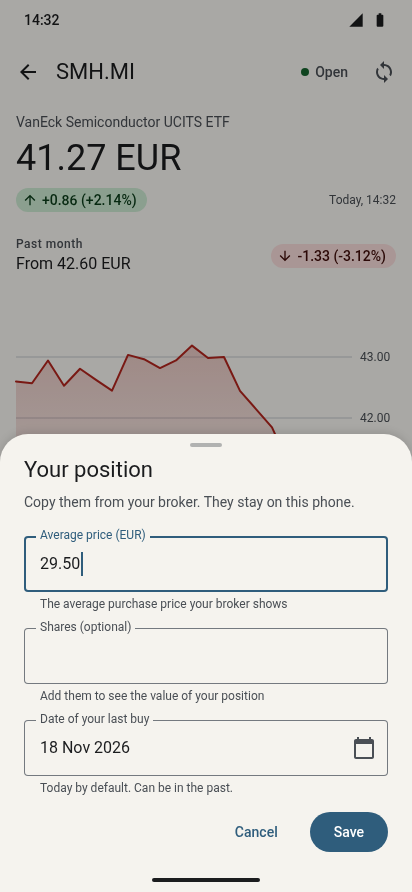
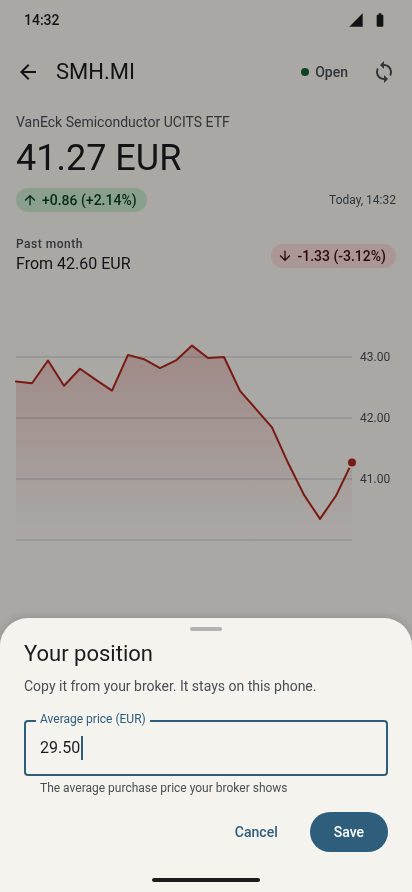
Export the M1 average-only design from Doop (decision 0040)
PositionCard rev 3: the avg state shows the average and the change since it, with no
shares hint and no last-buy footer. The add and edit sheets ask for the average only,
and the edit sheet's chart loses the diamond. The avg+shares frame is parked for M2 and
not re-exported.

Changed region(s): [[0.0, 0.4843, 1.0, 0.9081], [0.8447, 0.8173, 0.9612, 0.8778]]

diff --git a/docs/design/doop/frames/details-edit-position.html b/docs/design/doop/frames/details-edit-position.html
@@ -15,7 +15,6 @@
 <path d="M16.0,97.4 L32.0,99.3 L48.0,76.5 L64.0,101.7 L80.0,84.8 L96.0,95.9 L112.0,106.7 L128.0,70.9 L144.0,75.2 L160.0,84.1 L176.0,76.4 L192.0,61.6 L208.0,74 L224.0,73 L240.0,106.9 L256.0,125.1 L272.0,143.3 L288.0,178.8 L304.0,210.9 L320.0,234.9 L336.0,211.8 L352.0,178.6" fill="none" stroke="currentColor" stroke-width="2" stroke-linejoin="round" stroke-linecap="round"></path>
 <line x1="16" y1="213.3" x2="352" y2="213.3" stroke="var(--color-tertiary)" stroke-width="1.5" stroke-dasharray="0.1 5" stroke-linecap="round"></line>
 <text x="18" y="207.4" fill="var(--color-tertiary)" font-size="11" font-weight="500" font-family="var(--font-sans)">Your avg</text>
-<path d="M112 99.2 L119.5 106.7 L112 114.2 L104.5 106.7 Z" fill="var(--color-tertiary)" stroke="var(--color-surface)" stroke-width="2" stroke-linejoin="round"></path>
 <circle cx="352" cy="178.6" r="5" fill="currentColor" stroke="var(--color-surface)" stroke-width="2"></circle>
 <g fill="var(--color-on-surface-variant)" font-size="12" font-family="var(--font-sans)" style="font-variant-numeric:tabular-nums;"><text x="360" y="76.5">43.00</text><text x="360" y="137.5">42.00</text><text x="360" y="198.5">41.00</text></g>
 <text x="360" y="216.8" fill="var(--color-tertiary)" font-size="12" font-weight="500" font-family="var(--font-sans)" style="font-variant-numeric:tabular-nums;">40.70</text>
@@ -24,10 +23,8 @@
 <div style="position:absolute;left:0;right:0;bottom:0;">
 <doop-use component="BottomSheet"><template slot="content">
 <h2 style="font-size:var(--text-title-large);line-height:var(--leading-title-large);font-weight:var(--font-weight-regular);">Your position</h2>
-<p style="margin-top:var(--spacing-sm);font-size:var(--text-body-medium);line-height:var(--leading-body-medium);color:var(--color-on-surface-variant);">Bought more? Copy the new values from your broker.</p>
+<p style="margin-top:var(--spacing-sm);font-size:var(--text-body-medium);line-height:var(--leading-body-medium);color:var(--color-on-surface-variant);">Bought more? Copy the new average from your broker.</p>
 <div style="margin-top:var(--spacing-lg);"><doop-use component="TextField" label="Average price (EUR)" state="focused" supporting="Was 40.70" value="41.02"></doop-use></div>
-<div style="margin-top:var(--spacing-md);"><doop-use component="TextField" label="Shares (optional)" supporting="Was 120" value="140"></doop-use></div>
-<div style="margin-top:var(--spacing-md);position:relative;"><doop-use component="TextField" label="Date of this buy" supporting="Was 28 Oct 2026. Can be in the past." value="14 Nov 2026"></doop-use><svg aria-hidden="true" width="24" height="24" viewBox="0 0 24 24" fill="var(--color-on-surface-variant)" style="position:absolute;right:12px;top:16px;"><path d="M20 3h-1V1h-2v2H7V1H5v2H4c-1.1 0-2 .9-2 2v16c0 1.1.9 2 2 2h16c1.1 0 2-.9 2-2V5c0-1.1-.9-2-2-2zm0 18H4V8h16v13z"></path></svg></div>
 <div style="margin-top:var(--spacing-md);display:flex;justify-content:flex-end;align-items:center;gap:var(--spacing-sm);"><doop-use component="Button" label="Cancel" tone="text"></doop-use><doop-use component="Button" label="Save" tone="filled"></doop-use></div>
 <div style="height:24px;"></div>
 </template></doop-use>

diff --git a/docs/design/doop/components/PriceChart.html b/docs/design/doop/components/PriceChart.html
@@ -10,12 +10,12 @@
         2px surface ring. 1D only: dashed 1px on-surface-variant baseline at the previous close, its label in medium
         weight; the line stops at the last quote (the rest of the 09:00-17:30 session stays empty).
         Scrub: 1px on-surface vertical line at the finger plus a 6px dot on the line.
-  Position (decisions 0033, 0034), only when the owner logged one:
+  Position (decisions 0033, 0040), only when the owner saved an average:
         Average: 1.5px dotted tertiary line (dasharray 0.1 5, round caps) across the plot, "Your avg" above its left
         end (11px medium tertiary), its price in the gutter in tertiary medium. Outside the axis range the axis is
         never stretched: a short dotted stub at the plot edge, a chevron and the price in the gutter.
-        Last buy: 15px tertiary diamond with a 2px surface outline on the line at the buy's date, only when that
-        date is inside the range. No drop line, axis tick or date label (the date is in the PositionCard footer).
+        No last-buy mark: the diamond of decision 0034 is removed in M1 (decision 0040). The latest buy returns in
+        the private view (M2), at its date and price.
   Error state: no chart (never a stale one), "Couldn't fetch" with a Retry button (PRD 4).
 -->
 <div class="pc" data-state="ready" data-direction="up" style="position:relative;height:292px;font-family:var(--font-sans);"><div class="pc-plot" data-doop-slot="plot" style="position:absolute;inset:0;"></div><div class="pc-err" style="position:absolute;inset:0;flex-direction:column;align-items:center;justify-content:center;gap:var(--spacing-sm);margin:0 var(--spacing-md);border-radius:var(--radius-lg);background:var(--color-surface-container-low);color:var(--color-on-surface-variant);text-align:center;"><svg width="32" height="32" viewBox="0 0 24 24" fill="currentColor"><path d="M19.35 10.04A7.49 7.49 0 0 0 12 4c-1.48 0-2.85.43-4.01 1.17l1.46 1.46a5.497 5.497 0 0 1 8.05 4.87v.5H19c1.66 0 3 1.34 3 3 0 1.13-.64 2.11-1.56 2.62l1.45 1.45C23.16 18.16 24 16.68 24 15c0-2.64-2.05-4.78-4.65-4.96zM3 5.27l2.75 2.74C2.56 8.15 0 10.77 0 14c0 3.31 2.69 6 6 6h11.73l2 2L21 20.73 4.27 4 3 5.27zM7.73 10l8 8H6c-2.21 0-4-1.79-4-4s1.79-4 4-4h1.73z"></path></svg><p style="font-size:var(--text-title-medium);line-height:var(--leading-title-medium);font-weight:var(--font-weight-medium);color:var(--color-on-surface);">Couldn't fetch</p><p style="font-size:var(--text-body-medium);line-height:var(--leading-body-medium);max-width:260px;">The chart needs a connection. Check it and try again.</p><span style="margin-top:var(--spacing-sm);"><doop-use component="Button" tone="filled" label="Retry"></doop-use></span></div></div>

diff --git a/docs/design/doop/components/PositionCard.html b/docs/design/doop/components/PositionCard.html
@@ -1,13 +1,14 @@
 <!--
-  Component: PositionCard (Doop id ck5u26pzly, rev 2)
-  Details screen, under the range bar: the owner's own position in the ticker, typed in from their broker, never
-  computed (decision 0033). Wrap in a div with 16px side margins.
+  Component: PositionCard (Doop id ck5u26pzly, rev 3)
+  Details screen, under the range bar: the owner's own position in the ticker. Wrap in a div with 16px side margins.
   Props: state empty|avg|full = full;
-         empty: nothing logged yet, "Own this? Add the average price..." and an "Add average price" text button;
-         avg: average price and change since the average, a hint to add shares;
-         full: average price, shares, value (shares x last price) and change since the average.
+         empty: nothing saved yet, "Own this? Add the average price..." and an "Add average price" text button;
+         avg (public view, decision 0040, M1): the average price copied from the broker and the change since it.
+           No shares, no hint, no footer;
+         full: PARKED for M2 (private view, built from the trade log). Average, shares, value and change, with a
+           footer that will open the buy history. Not built in M1; M2 redesigns it.
          avg, shares, value: text with currency ("40.70 EUR", "120", "4,952.40 EUR");
-         lastbuy: footer text ("Last buy 28 Oct 2026"), avg and full only; later the entry to the buy history.
+         lastbuy: footer text, full only (M2).
   Slot: change (a ChangeBadge with the change since the average, abs and %).
   The edit pencil (48dp touch target) opens the edit sheet; the dotted swatch before "Avg price" matches the chart line.
 -->
@@ -18,9 +19,8 @@
 .poc .poc-grid { display: grid; grid-template-areas: "avg shares" "value change"; }
 .poc .poc-foot { display: flex; }
 .poc .poc-empty, .poc .poc-add, .poc .poc-hint { display: none; }
-.poc[data-state="avg"] .poc-grid { grid-template-areas: "avg change"; }
-.poc[data-state="avg"] .poc-shares, .poc[data-state="avg"] .poc-value { display: none; }
-.poc[data-state="avg"] .poc-hint { display: block; }
+.poc[data-state="avg"] .poc-grid { grid-template-areas: "avg change"; padding-bottom: var(--spacing-md); }
+.poc[data-state="avg"] .poc-shares, .poc[data-state="avg"] .poc-value, .poc[data-state="avg"] .poc-foot { display: none; }
 .poc[data-state="empty"] .poc-edit, .poc[data-state="empty"] .poc-grid, .poc[data-state="empty"] .poc-foot { display: none; }
 .poc[data-state="empty"] .poc-empty { display: block; }
 .poc[data-state="empty"] .poc-add { display: flex; }

diff --git a/docs/design/doop/frames/details-add-position.html b/docs/design/doop/frames/details-add-position.html
@@ -20,10 +20,8 @@
 <div style="position:absolute;left:0;right:0;bottom:0;">
 <doop-use component="BottomSheet"><template slot="content">
 <h2 style="font-size:var(--text-title-large);line-height:var(--leading-title-large);font-weight:var(--font-weight-regular);">Your position</h2>
-<p style="margin-top:var(--spacing-sm);font-size:var(--text-body-medium);line-height:var(--leading-body-medium);color:var(--color-on-surface-variant);">Copy them from your broker. They stay on this phone.</p>
+<p style="margin-top:var(--spacing-sm);font-size:var(--text-body-medium);line-height:var(--leading-body-medium);color:var(--color-on-surface-variant);">Copy it from your broker. It stays on this phone.</p>
 <div style="margin-top:var(--spacing-lg);"><doop-use component="TextField" label="Average price (EUR)" state="focused" supporting="The average purchase price your broker shows" value="29.50"></doop-use></div>
-<div style="margin-top:var(--spacing-md);"><doop-use component="TextField" label="Shares (optional)" supporting="Add them to see the value of your position" value=""></doop-use></div>
-<div style="margin-top:var(--spacing-md);position:relative;"><doop-use component="TextField" label="Date of your last buy" supporting="Today by default. Can be in the past." value="18 Nov 2026"></doop-use><svg aria-hidden="true" width="24" height="24" viewBox="0 0 24 24" fill="var(--color-on-surface-variant)" style="position:absolute;right:12px;top:16px;"><path d="M20 3h-1V1h-2v2H7V1H5v2H4c-1.1 0-2 .9-2 2v16c0 1.1.9 2 2 2h16c1.1 0 2-.9 2-2V5c0-1.1-.9-2-2-2zm0 18H4V8h16v13z"></path></svg></div>
 <div style="margin-top:var(--spacing-md);display:flex;justify-content:flex-end;gap:var(--spacing-sm);"><doop-use component="Button" label="Cancel" tone="text"></doop-use><doop-use component="Button" label="Save" tone="filled"></doop-use></div>
 <div style="height:24px;"></div>
 </template></doop-use>

diff --git a/docs/design/doop/SNAPSHOT.md b/docs/design/doop/SNAPSHOT.md
@@ -2,7 +2,7 @@
 
 Canvas: **Lucrometro**, ID `VPv84853nU`. Exported 2026-11-17 by hand, following `.claude/skills/doop-sync`
 (`export`), with the deviations listed below; details and position frames re-exported 2026-11-19, and again on
-2026-11-20 for the auto-refresh design (decision 0035). Re-running the export overwrites this folder.
+2026-11-20 for the auto-refresh design (decision 0035), and the position frames on 2026-11-22 for M1 (decision 0040). Re-running the export overwrites this folder.
 
 ## Frames (app screens)
 
@@ -18,7 +18,7 @@ Canvas: **Lucrometro**, ID `VPv84853nU`. Exported 2026-11-17 by hand, following 
 | `details-chart-failed` | Details · chart failed (stale header) | `ysEbtRvZXk` | `frames/details-chart-failed.html`, `.png` |
 | `details-1d-dark` | Details · 1D (dark) | `2FJ3ZK7LCY` | `frames/details-1d-dark.html`, `.png` |
 | `details-worst-case` | Details · worst case (stress values) | `iJVgK2AL0n` | `frames/details-worst-case.html`, `.png` |
-| `details-position` | Details · position (avg + shares) | `zoEYo9D6DA` | `frames/details-position.html`, `.png` |
+| `details-position` | Parked for M2 (private view) · position (avg + shares) | `zoEYo9D6DA` | `frames/details-position.html`, `.png` |
 | `details-position-avg-only` | Details · position (avg only, below the chart) | `QUevA8SJK_` | `frames/details-position-avg-only.html`, `.png` |
 | `details-add-position` | Details · add position sheet | `-rhgnhOKIC` | `frames/details-add-position.html`, `.png` |
 | `details-edit-position` | Details · edit position sheet | `a02OBvdVC9` | `frames/details-edit-position.html`, `.png` |
@@ -46,6 +46,14 @@ The position frames (added 2026-11-19, decisions 0033 and 0034) are marked ready
 position work every details frame was re-exported: the chart is 292dp (was 324) and the empty `PositionCard` sits
 under the range bar. `details-position` shows the average line and the last-buy diamond; `details-position-avg-only`
 shows an average below the axis range (edge marker) and no diamond, as its last buy is outside the 1D range.
+
+M1, average only (decision 0040, 2026-11-22): `PositionCard` is rev 3. Its avg state shows the average and "Since avg"
+only (no shares hint, no "Last buy" footer). The add and edit sheets ask for the average only, and the edit sheet's
+chart has no diamond. Both sheets were signed off again by the owner on 2026-11-22. Re-exported: `PositionCard`,
+`PriceChart` (header comment only), `details-add-position`, `details-edit-position`, and the PNG of
+`details-position-avg-only` (its HTML is unchanged; the `lastbuy` prop it still passes is no longer shown).
+`details-position` is **parked for M2**: it still shows the full card and the diamond and was not re-exported. Do not
+port it in M1.
 
 ## Tokens and components
 

diff --git a/docs/roadmap.md b/docs/roadmap.md
@@ -49,7 +49,7 @@ Next
 
 Portfolio track (decision 0040): one branch per milestone, from main
 - M1, average only: `PositionCard`, sheets and chart without the date, the diamond and the shares. Designed in Doop
-  2026-11-22; to snapshot and build.
+  2026-11-22 and snapshotted on branch `average-only`; to build.
 - M2, trade log and private view: buys only, the public/private switch (one tap), form, then the CSV import.
   To design in Doop. Trades import from the broker-neutral CSV of decision 0041.
 - M3, sells: weighted average cost, realized gains.
